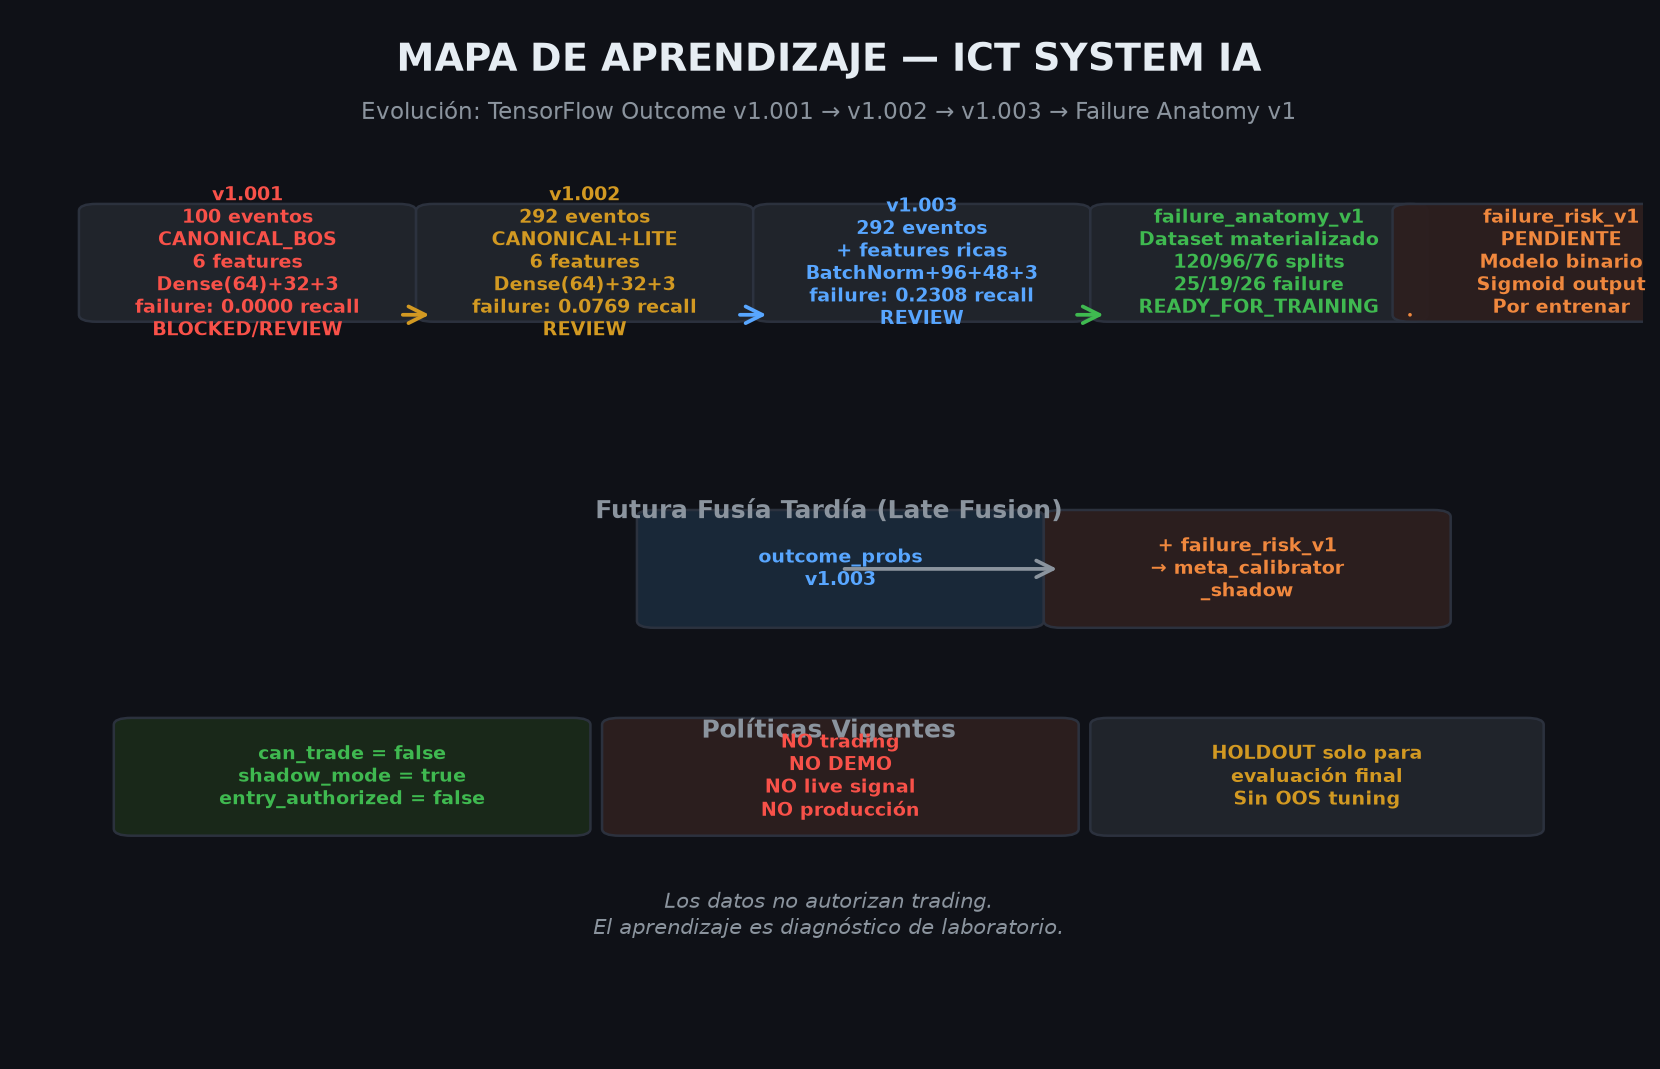
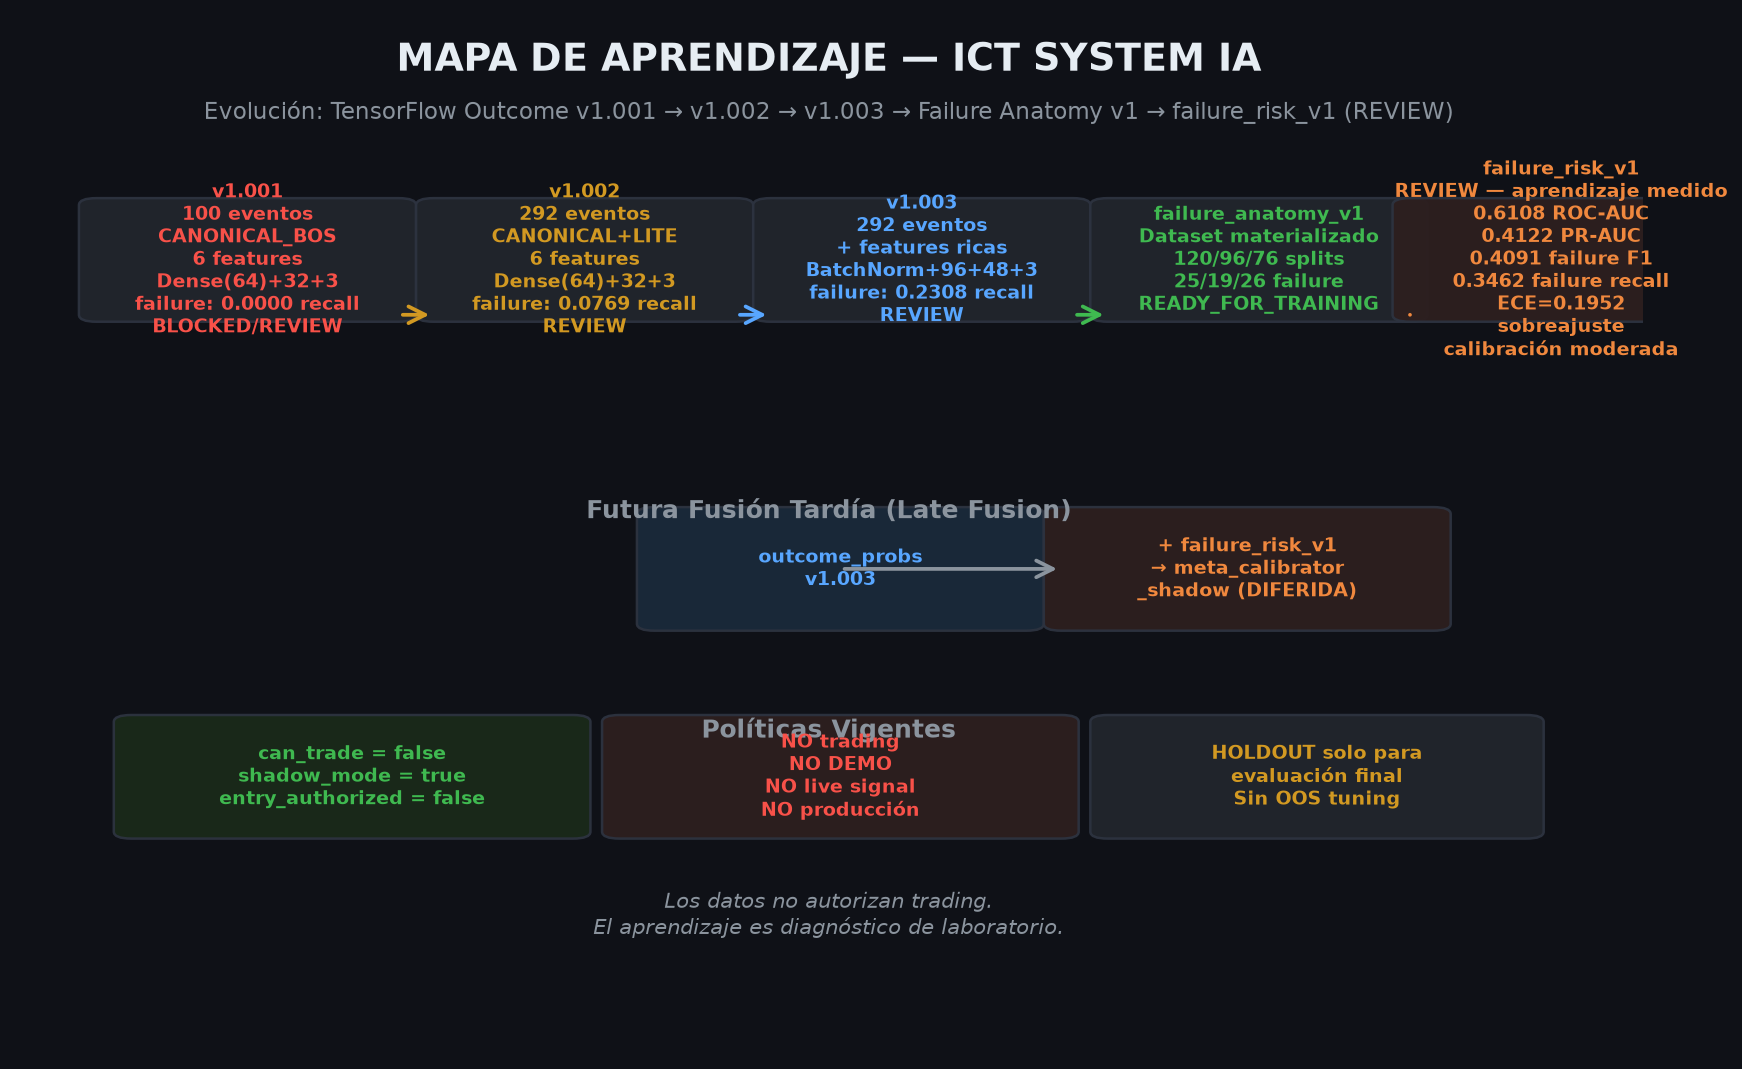
docs(ai): refresh neural progress charts with failure risk

diff --git a/scripts/lab/experiments/generate_neural_progress_charts.py b/scripts/lab/experiments/generate_neural_progress_charts.py
@@ -1,11 +1,12 @@
 #!/usr/bin/env python3
-"""Generate ICT SYSTEM neural training progress chart."""
+"""Generate ICT SYSTEM neural training progress chart — failure_risk_v1 integrado."""
 
 import matplotlib
 matplotlib.use('Agg')
 import matplotlib.pyplot as plt
 import matplotlib.patches as mpatches
 from matplotlib.patches import FancyBboxPatch, FancyArrowPatch
+from matplotlib.ticker import FuncFormatter
 import numpy as np
 import os
 
@@ -25,160 +26,220 @@ plt.rcParams.update({
 OUT = 'reports/audits/experiments/ai'
 os.makedirs(OUT, exist_ok=True)
 
-versions_all = ['v1.001', 'v1.002', 'v1.003', 'failure_anatomy_v1']
-failure_recall = [0.0000, 0.0769, 0.2308, None]
-failure_f1     = [0.0000, 0.1290, 0.2609, None]
-accuracy       = [0.4500, 0.4474, 0.5132, None]
-COLORS = ['#f85149', '#d29922', '#58a6ff', '#3fb950']
+VERSIONES = ['v1.001', 'v1.002', 'v1.003', 'failure_anatomy_v1', 'failure_risk_v1']
+FAILURE_RECALL = [0.0000, 0.0769, 0.2308, None, 0.3462]
+FAILURE_F1     = [0.0000, 0.1290, 0.2609, None, 0.4091]
+ACCURACY       = [0.4500, 0.4474, 0.5132, None, 0.6579]
+ROC_AUC        = [None, None, None, None, 0.6108]
+PR_AUC         = [None, None, None, None, 0.4122]
+ECE            = [None, None, None, None, 0.1952]
 
-# ── MAIN COMBINED CHART 2x2 ──────────────────────────
+COLORS = ['#f85149', '#d29922', '#58a6ff', '#3fb950', '#f0883e']
+
+
+def anotar_barra(ax, bar, valor, y_offset=0.005, texto_color='#e6edf3'):
+    """Anota el valor sobre una barra."""
+    if valor is None:
+        ax.text(bar.get_x()+bar.get_width()/2, 0.01, 'N/A', ha='center', va='bottom',
+                fontsize=9, color='#8b949e')
+    else:
+        ax.text(bar.get_x()+bar.get_width()/2,
+                bar.get_height() + y_offset,
+                f'{valor:.4f}', ha='center', va='bottom', fontsize=9, weight='bold',
+                color=texto_color)
+
+
+# ── GRÁFICA PRINCIPAL 2x2 ──────────────────────────────────────────
 fig, axes = plt.subplots(2, 2, figsize=(14, 10))
 fig.patch.set_facecolor('#0f1117')
 
+x = np.arange(len(VERSIONES))
+w = 0.6
+
 # TL: failure recall
-ax = axes[0,0]
-x = np.arange(len(versions_all))
-vals = [v if v is not None else 0 for v in failure_recall]
-bars = ax.bar(x, vals, color=COLORS, edgecolor='white', linewidth=0.8, width=0.6)
-for i, (bar, v) in enumerate(zip(bars, failure_recall)):
-    if v is None:
-        ax.text(bar.get_x()+bar.get_width()/2, 0.015, 'PENDIENTE', ha='center', va='bottom', fontsize=9, color='#f0883e', weight='bold')
-    else:
-        ax.text(bar.get_x()+bar.get_width()/2, bar.get_height()+0.008, f'{v:.4f}', ha='center', va='bottom', fontsize=9, weight='bold', color='#e6edf3')
+ax = axes[0, 0]
+vals = [v if v is not None else 0 for v in FAILURE_RECALL]
+bars = ax.bar(x, vals, color=COLORS, edgecolor='white', linewidth=0.8, width=w)
+for bar, v in zip(bars, FAILURE_RECALL):
+    anotar_barra(ax, bar, v, y_offset=0.008)
 ax.set_xticks(x)
-ax.set_xticklabels(versions_all, fontsize=9, rotation=15)
+ax.set_xticklabels(VERSIONES, fontsize=9, rotation=20, ha='right')
 ax.set_ylabel('failure recall', fontsize=10)
-ax.set_title('Failure Recall por versi\u00f3n', fontsize=12, pad=8)
-ax.set_ylim(0, 0.30)
+ax.set_title('Failure Recall por versión', fontsize=12, pad=8)
+ax.set_ylim(0, max(max(v for v in FAILURE_RECALL if v is not None), 0.05) * 1.25)
 ax.yaxis.set_major_formatter(plt.FuncFormatter(lambda y, _: f'{y:.2f}'))
 ax.grid(axis='y', alpha=0.3)
-for sp in ['top','right']:
+for sp in ['top', 'right']:
     ax.spines[sp].set_visible(False)
 
 # TR: failure F1
-ax = axes[0,1]
-x = np.arange(3)
-bars = ax.bar(x, failure_f1[:3], color=COLORS[:3], edgecolor='white', linewidth=0.8, width=0.55)
-for bar, v in zip(bars, failure_f1[:3]):
-    ax.text(bar.get_x()+bar.get_width()/2, bar.get_height()+0.005, f'{v:.4f}', ha='center', va='bottom', fontsize=9, weight='bold', color='#e6edf3')
+ax = axes[0, 1]
+vals = [v if v is not None else 0 for v in FAILURE_F1]
+bars = ax.bar(x, vals, color=COLORS, edgecolor='white', linewidth=0.8, width=w)
+for bar, v in zip(bars, FAILURE_F1):
+    anotar_barra(ax, bar, v, y_offset=0.005)
 ax.set_xticks(x)
-ax.set_xticklabels(versions_all[:3], fontsize=9, rotation=15)
+ax.set_xticklabels(VERSIONES, fontsize=9, rotation=20, ha='right')
 ax.set_ylabel('failure F1', fontsize=10)
-ax.set_title('Failure F1 por versi\u00f3n', fontsize=12, pad=8)
-ax.set_ylim(0, 0.32)
+ax.set_title('Failure F1 por versión', fontsize=12, pad=8)
+ax.set_ylim(0, max(max(v for v in FAILURE_F1 if v is not None), 0.05) * 1.25)
 ax.yaxis.set_major_formatter(plt.FuncFormatter(lambda y, _: f'{y:.2f}'))
 ax.grid(axis='y', alpha=0.3)
-for sp in ['top','right']:
+for sp in ['top', 'right']:
     ax.spines[sp].set_visible(False)
 
 # BL: accuracy
-ax = axes[1,0]
-x = np.arange(3)
-bars = ax.bar(x, accuracy[:3], color=COLORS[:3], edgecolor='white', linewidth=0.8, width=0.55)
-for bar, v in zip(bars, accuracy[:3]):
-    ax.text(bar.get_x()+bar.get_width()/2, bar.get_height()+0.003, f'{v:.4f}', ha='center', va='bottom', fontsize=9, weight='bold', color='#e6edf3')
+ax = axes[1, 0]
+vals = [v if v is not None else 0 for v in ACCURACY]
+bars = ax.bar(x, vals, color=COLORS, edgecolor='white', linewidth=0.8, width=w)
+for bar, v in zip(bars, ACCURACY):
+    anotar_barra(ax, bar, v, y_offset=0.003)
 ax.set_xticks(x)
-ax.set_xticklabels(versions_all[:3], fontsize=9, rotation=15)
+ax.set_xticklabels(VERSIONES, fontsize=9, rotation=20, ha='right')
 ax.set_ylabel('accuracy', fontsize=10)
-ax.set_title('Accuracy TEST_OOS por versi\u00f3n', fontsize=12, pad=8)
-ax.set_ylim(0.40, 0.55)
+ax.set_title('Accuracy TEST_OOS por versión', fontsize=12, pad=8)
+ax.set_ylim(0, max(max(v for v in ACCURACY if v is not None), 0.05) * 1.18)
 ax.yaxis.set_major_formatter(plt.FuncFormatter(lambda y, _: f'{y:.2f}'))
 ax.grid(axis='y', alpha=0.3)
-for sp in ['top','right']:
+for sp in ['top', 'right']:
     ax.spines[sp].set_visible(False)
 
 # BR: failure_anatomy splits
-ax = axes[1,1]
+ax = axes[1, 1]
 splits = ['TRAIN', 'VALIDATION', 'TEST_OOS']
 n_rows = [120, 96, 76]
 n_fail = [25, 19, 26]
-x = np.arange(len(splits))
+xs = np.arange(len(splits))
 width = 0.35
-bars1 = ax.bar(x - width/2, n_rows, width, label='Total filas', color='#58a6ff', edgecolor='white', linewidth=0.6)
-bars2 = ax.bar(x + width/2, n_fail, width, label='Failure', color='#f85149', edgecolor='white', linewidth=0.6)
+bars1 = ax.bar(xs - width/2, n_rows, width, label='Total filas', color='#58a6ff',
+               edgecolor='white', linewidth=0.6)
+bars2 = ax.bar(xs + width/2, n_fail, width, label='Failure', color='#f85149',
+               edgecolor='white', linewidth=0.6)
 for bar in bars1:
-    ax.text(bar.get_x()+bar.get_width()/2, bar.get_height()+1.5, str(int(bar.get_height())), ha='center', va='bottom', fontsize=9, weight='bold', color='#e6edf3')
+    ax.text(bar.get_x()+bar.get_width()/2, bar.get_height()+1.5,
+            str(int(bar.get_height())), ha='center', va='bottom',
+            fontsize=9, weight='bold', color='#e6edf3')
 for bar in bars2:
-    ax.text(bar.get_x()+bar.get_width()/2, bar.get_height()+1.5, str(int(bar.get_height())), ha='center', va='bottom', fontsize=9, weight='bold', color='#f0883e')
-ax.set_xticks(x)
+    ax.text(bar.get_x()+bar.get_width()/2, bar.get_height()+1.5,
+            str(int(bar.get_height())), ha='center', va='bottom',
+            fontsize=9, weight='bold', color='#f0883e')
+ax.set_xticks(xs)
 ax.set_xticklabels(splits, fontsize=10)
 ax.set_ylabel('cantidad', fontsize=10)
 ax.set_title('failure_anatomy_v1 — split distribution', fontsize=12, pad=8)
 ax.legend(loc='upper right', fontsize=9)
-ax.set_ylim(0, 135)
+ax.set_ylim(0, max(n_rows)*1.15)
 ax.grid(axis='y', alpha=0.3)
-for sp in ['top','right']:
+for sp in ['top', 'right']:
     ax.spines[sp].set_visible(False)
 
-fig.suptitle('Avance Entrenamiento IA / TensorFlow — ICT SYSTEM', fontsize=16, fontweight='bold', color='#e6edf3', y=0.98)
-fig.text(0.5, 0.01, 'commit: c495efc  •  Python 3.11.15 / TensorFlow 2.21.0  •  can_trade=false  •  shadow_mode=true  •  failure_risk_v1 entrenado — estado REVIEW',
+fig.suptitle('Avance Entrenamiento IA / TensorFlow — ICT SYSTEM', fontsize=16,
+             fontweight='bold', color='#e6edf3', y=0.98)
+fig.text(0.5, 0.01,
+         'commit: c495efc  •  Python 3.11.15 / TensorFlow 2.21.0  '
+         '•  can_trade=false  •  shadow_mode=true  '
+         '•  failure_risk_v1 REVIEW',
          ha='center', fontsize=9, color='#8b949e')
 
 plt.tight_layout(rect=[0, 0.03, 1, 0.95])
-fig.savefig(OUT + '/neural_training_progress_v1.png', dpi=150, bbox_inches='tight', facecolor='#0f1117')
+fig.savefig(os.path.join(OUT, 'neural_training_progress_v1.png'),
+            dpi=150, bbox_inches='tight', facecolor='#0f1117')
 plt.close(fig)
 print('Main chart saved')
 
-# ── LEARNING MAP ───────────────────────────────────────
+
+# ── LEARNING MAP ──────────────────────────────────────────────────
 fig, ax = plt.subplots(figsize=(14, 9))
 ax.set_xlim(0, 14)
 ax.set_ylim(0, 9)
 ax.axis('off')
 fig.patch.set_facecolor('#0f1117')
 
+
 def box(x, y, w, h, text, color, text_color='#e6edf3', fontsize=10, bold=True):
-    style = 'round,pad=0.15'
-    p = FancyBboxPatch((x, y), w, h, boxstyle=style,
+    p = FancyBboxPatch((x, y), w, h, boxstyle='round,pad=0.15',
                        facecolor=color, edgecolor='#2d3340', linewidth=1.2,
                        alpha=0.95, mutation_aspect=0.4)
     ax.add_patch(p)
     weight = 'bold' if bold else 'normal'
-    ax.text(x+w/2, y+h/2, text, ha='center', va='center',
+    ax.text(x + w/2, y + h/2, text, ha='center', va='center',
             fontsize=fontsize, color=text_color, weight=weight, wrap=True)
-    return (x+w/2, y+h/2)
+    return (x + w/2, y + h/2)
+
 
 def arrow(x1, y1, x2, y2, color='#58a6ff'):
     ar = FancyArrowPatch((x1, y1), (x2, y2),
-                            arrowstyle='->', mutation_scale=20,
-                            color=color, linewidth=1.8)
+                         arrowstyle='->', mutation_scale=20, color=color,
+                         linewidth=1.8)
     ax.add_patch(ar)
+
 
 ax.text(7, 8.6, 'MAPA DE APRENDIZAJE — ICT SYSTEM IA', ha='center', va='center',
         fontsize=18, fontweight='bold', color='#e6edf3')
-ax.text(7, 8.15, 'Evoluci\u00f3n: TensorFlow Outcome v1.001 \u2192 v1.002 \u2192 v1.003 \u2192 Failure Anatomy v1',
+ax.text(7, 8.15, 'Evolución: TensorFlow Outcome v1.001 → v1.002 → v1.003 → Failure Anatomy v1 → failure_risk_v1 (REVIEW)',
         ha='center', va='center', fontsize=11, color='#8b949e')
 
-w, h = 2.6, 0.9
+w_box, h_box = 2.6, 0.95
 y_base = 6.4
 
-x0 = 0.7; c1 = box(x0, y_base, w, h, 'v1.001\n100 eventos\nCANONICAL_BOS\n6 features\nDense(64)+32+3\nfailure: 0.0000 recall\nBLOCKED/REVIEW', '#21262d', '#f85149', 9)
-x1 = 3.6; c2 = box(x1, y_base, w, h, 'v1.002\n292 eventos\nCANONICAL+LITE\n6 features\nDense(64)+32+3\nfailure: 0.0769 recall\nREVIEW', '#21262d', '#d29922', 9)
-x2 = 6.5; c3 = box(x2, y_base, w, h, 'v1.003\n292 eventos\n+ features ricas\nBatchNorm+96+48+3\nfailure: 0.2308 recall\nREVIEW', '#21262d', '#58a6ff', 9)
-x3 = 9.4; c4 = box(x3, y_base, w, h, 'failure_anatomy_v1\nDataset materializado\n120/96/76 splits\n25/19/26 failure\nREADY_FOR_TRAINING', '#21262d', '#3fb950', 9)
-x4 = 12.0; c5 = box(x4, y_base, w, h, 'failure_risk_v1\nPENDIENTE\nModelo binario\nSigmoid output\nPor entrenar', '#2d1f1f', '#f0883e', 9)
 
-arrow(c1[0]+w/2, c1[1]-h/2, c2[0]-w/2, c2[1]-h/2, '#d29922')
-arrow(c2[0]+w/2, c2[1]-h/2, c3[0]-w/2, c3[1]-h/2, '#58a6ff')
-arrow(c3[0]+w/2, c3[1]-h/2, c4[0]-w/2, c4[1]-h/2, '#3fb950')
-arrow(c4[0]+w/2, c4[1]-h/2, c5[0]-w/2, c5[1]-h/2, '#f0883e')
+def caja_box(x, y, w, h, text, color, text_color='#e6edf3', fontsize=9):
+    return box(x, y, w, h, text, color, text_color, fontsize)
+
+
+c1_x0 = 0.7
+c1 = box(c1_x0, y_base, w_box, h_box,
+         'v1.001\n100 eventos\nCANONICAL_BOS\n6 features\nDense(64)+32+3\nfailure: 0.0000 recall\nBLOCKED/REVIEW',
+         '#21262d', '#f85149', 9)
+
+c2_x1 = 3.6
+c2 = box(c2_x1, y_base, w_box, h_box,
+         'v1.002\n292 eventos\nCANONICAL+LITE\n6 features\nDense(64)+32+3\nfailure: 0.0769 recall\nREVIEW',
+         '#21262d', '#d29922', 9)
+
+c3_x2 = 6.5
+c3 = box(c3_x2, y_base, w_box, h_box,
+         'v1.003\n292 eventos\n+ features ricas\nBatchNorm+96+48+3\nfailure: 0.2308 recall\nREVIEW',
+         '#21262d', '#58a6ff', 9)
+
+c4_x3 = 9.4
+c4 = box(c4_x3, y_base, w_box, h_box,
+         'failure_anatomy_v1\nDataset materializado\n120/96/76 splits\n25/19/26 failure\nREADY_FOR_TRAINING',
+         '#21262d', '#3fb950', 9)
+
+c5_x4 = 12.0
+c5 = box(c5_x4, y_base, w_box, h_box,
+         'failure_risk_v1\nREVIEW — aprendizaje medido\n0.6108 ROC-AUC\n0.4122 PR-AUC\n0.4091 failure F1\n0.3462 failure recall\nECE=0.1952\nsobreajuste\ncalibración moderada',
+         '#2d1f1f', '#f0883e', 9)
+
+arrow(c1[0] + w_box/2, c1[1] - h_box/2, c2[0] - w_box/2, c2[1] - h_box/2, '#d29922')
+arrow(c2[0] + w_box/2, c2[1] - h_box/2, c3[0] - w_box/2, c3[1] - h_box/2, '#58a6ff')
+arrow(c3[0] + w_box/2, c3[1] - h_box/2, c4[0] - w_box/2, c4[1] - h_box/2, '#3fb950')
+arrow(c4[0] + w_box/2, c4[1] - h_box/2, c5[0] - w_box/2, c5[1] - h_box/2, '#f0883e')
 
 y_fusion = 4.2
-ax.text(7, y_fusion+0.5, 'Futura Fus\u00eda Tard\u00eda (Late Fusion)', ha='center', va='center',
-        fontsize=12, fontweight='bold', color='#8b949e')
-box(5.5, y_fusion-h/2, 3.2, h, 'outcome_probs\nv1.003', '#1a2a3a', '#58a6ff', 9)
-box(9.0, y_fusion-h/2, 3.2, h, '+ failure_risk_v1\n\u2192 meta_calibrator\n_shadow', '#2d1f1f', '#f0883e', 9)
+ax.text(7, y_fusion+0.5, 'Futura Fusión Tardía (Late Fusion)',
+        ha='center', va='center', fontsize=12, fontweight='bold', color='#8b949e')
+box(5.5, y_fusion-h_box/2, 3.2, h_box, 'outcome_probs\nv1.003', '#1a2a3a', '#58a6ff', 9)
+box(9.0, y_fusion-h_box/2, 3.2, h_box, '+ failure_risk_v1\n→ meta_calibrator\n_shadow (DIFERIDA)',
+    '#2d1f1f', '#f0883e', 9)
 arrow(7.1, y_fusion, 9.0, y_fusion, '#8b949e')
 
 y_pol = 2.4
-ax.text(7, y_pol+0.4, 'Pol\u00edticas Vigentes', ha='center', va='center',
+ax.text(7, y_pol+0.4, 'Políticas Vigentes', ha='center', va='center',
         fontsize=12, fontweight='bold', color='#8b949e')
-box(1.0, y_pol-h/2, 3.8, h, 'can_trade = false\nshadow_mode = true\nentry_authorized = false', '#1a2a1a', '#3fb950', 9)
-box(5.2, y_pol-h/2, 3.8, h, 'NO trading\nNO DEMO\nNO live signal\nNO producci\u00f3n', '#2d1f1f', '#f85149', 9)
-box(9.4, y_pol-h/2, 3.6, h, 'HOLDOUT solo para\nevaluaci\u00f3n final\nSin OOS tuning', '#21262d', '#d29922', 9)
+box(1.0, y_pol-h_box/2, 3.8, h_box, 'can_trade = false\nshadow_mode = true\nentry_authorized = false',
+    '#1a2a1a', '#3fb950', 9)
+box(5.2, y_pol-h_box/2, 3.8, h_box, 'NO trading\nNO DEMO\nNO live signal\nNO producción',
+    '#2d1f1f', '#f85149', 9)
+box(9.4, y_pol-h_box/2, 3.6, h_box, 'HOLDOUT solo para\nevaluación final\nSin OOS tuning',
+    '#21262d', '#d29922', 9)
 
-ax.text(7, 1.2, 'Los datos no autorizan trading.\nEl aprendizaje es diagn\u00f3stico de laboratorio.',
+ax.text(7, 1.2,
+        'Los datos no autorizan trading.\nEl aprendizaje es diagnóstico de laboratorio.',
         ha='center', va='center', fontsize=10, color='#8b949e', style='italic')
 
-fig.savefig(OUT + '/neural_learning_map_v1.png', dpi=150, bbox_inches='tight', facecolor='#0f1117')
+fig.savefig(os.path.join(OUT, 'neural_learning_map_v1.png'),
+            dpi=150, bbox_inches='tight', facecolor='#0f1117')
 plt.close(fig)
 print('Learning map saved')
